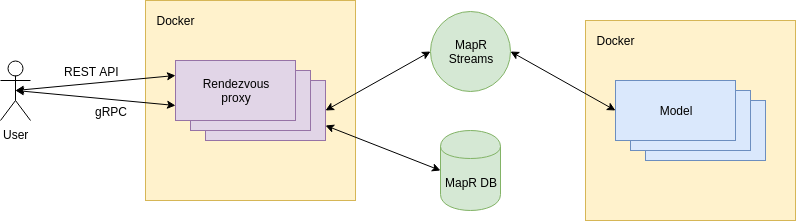
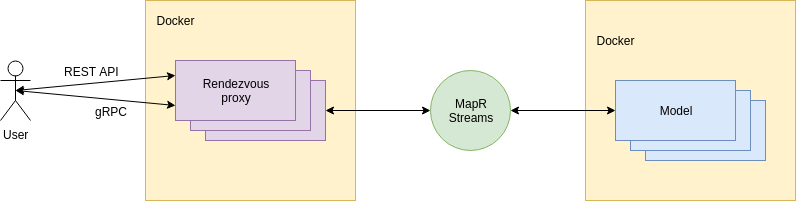
updated readme

diff --git a/README.md b/README.md
@@ -8,16 +8,22 @@ System consist of 2 modules:
 
 ## Components
 ### Proxy
-Proxy receives requests from user over REST or gRPC. Then it sends requests over MapR Streams with models and waiting for responses. When responses are coming we look if they are from primary/requested model or not, if we have not received response from primary/requested model in timeout, than we will choose response from model, which have more accuracy. Proxy is also listening for discovery topic and writes info about changes in models to MapR DB. List of models and their accuracy is also available via REST.
+Proxy receives requests from user over REST or gRPC. 
+Then it sends requests over MapR Streams to models and waits for responses. 
+When responses are coming we look if they are from primary/requested model or not, 
+if we have not received response from primary/requested model in timeout, than we will choose response from model, 
+which have more accuracy.
 
 ### Model
-At start model publishes info about itself to discovery topic in MapR Streams. After configuration model subscribes for task's topic in MapR Streams. When model receives request it slips some time for emulating computing and sends result to result topic in MapR Streams.
+After configuration model subscribes for task's topic in MapR Streams. 
+When model receives request it slips some time for emulating computing and sends result to result topic in MapR Streams.
 
 ### Communication between components
 ![alt text](diagrams/MapRStreamsDiagram.png)
 ## API
 ### REST
-To send task you have to make a PUT request to http://ADDRESS:PORT/task with JSON:
+To send task you have to make a PUT request to http://ADDRESS:PORT/task with JSON: or via GRPC ADDRESS:PORT
+(default ports are 8080 for REST and 50051 for GRPC)
 ```json
 {
   "timeout": 10000,
@@ -46,3 +52,36 @@ If everything is ok, then you will receive the next response:
 * modelClass - class of model
 * result - some result
 * accuracy - accuracy of result
+
+## Quick start
+1. Clone repository
+2. Build containers with required user, group, UID and GID
+    ```bash
+        ./gradlew buildImage -P MAPR_CONTAINER_USER=YourUser -P MAPR_CONTAINER_UID=YourUID -P MAPR_CONTAINER_GROUP=YourGroup -P MAPR_CONTAINER_GID=YourGID
+    ```
+3. Set properties for connection in `docker/connection.env`
+    * MAPR_CLUSTER - cluster's name
+    * MAPR_CLDB_HOSTS - CLDB hosts
+    * MAPR_ZOOKEEPER_HOST - Zookeeper hosts
+    * KAFKA_STREAM - path to MapR stream
+4. Start docker compose
+    ```bash
+        ./gradlew composeUp
+    ```
+5. Make REST or GRPC request
+
+## Advanced containers settings
+If it is necessary you can specify additional properties in `docker/docker-compose.yml`:
+
+### Proxy
+* CONFIG_PROXY_ID - id of proxy, otherwise will be default
+* CONFIG_DEFAULT_TIMEOUT - default timeout for waiting model responses in milliseconds
+* MODEL_PRIMARY - id of primary model
+### Model
+* CONFIG_ID - model's id
+* CONFIG_ACCURACY - model;s accuracy
+* CONFIG_MODEL_CLASS - model's class
+* CONFIG_SLEEP_START - start of interval for generating random sleep in milliseconds
+* CONFIG_SLEEP_END - end of interval for generating random sleep in milliseconds
+* CONFIG_RESULT_START - start of interval for generating random result
+* CONFIG_RESULT_END - end of interval for generating random result
